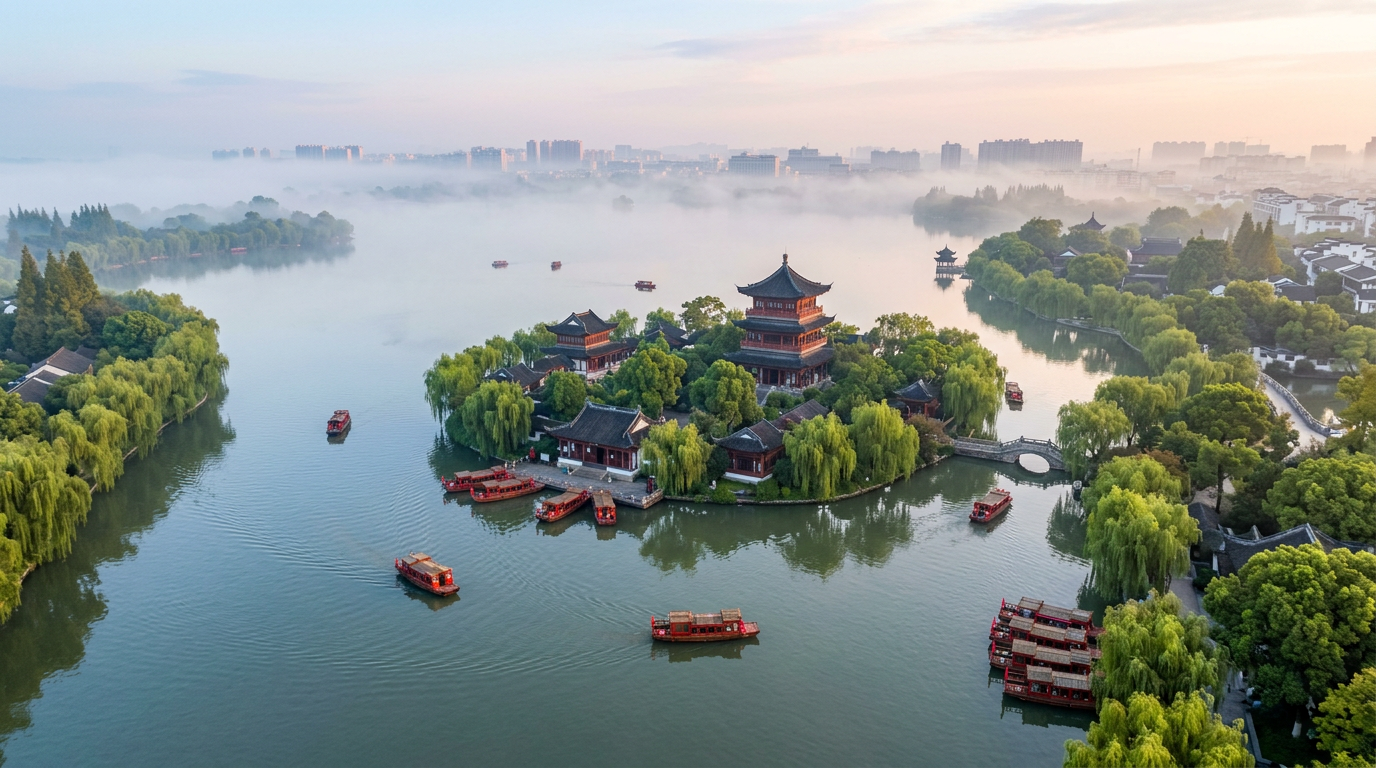
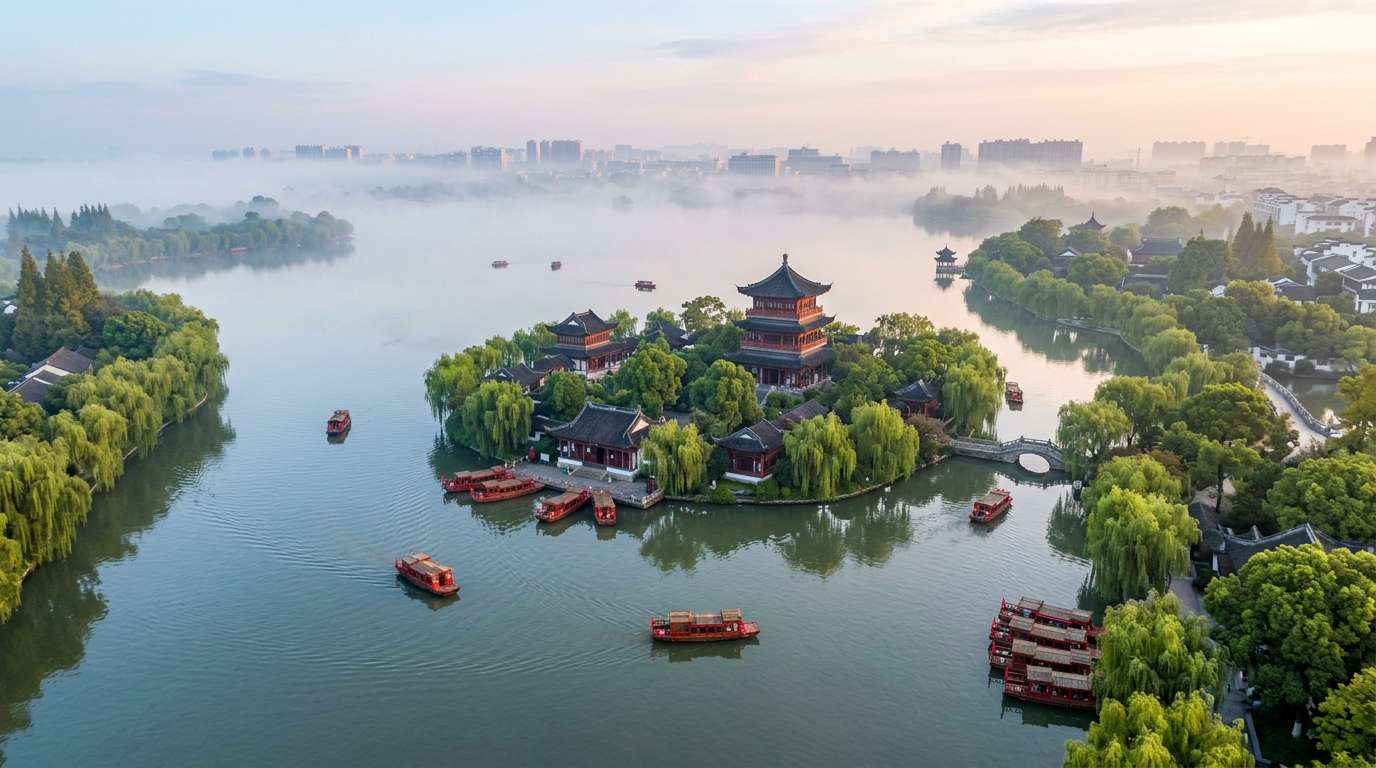
Compress figures

diff --git a/index.html b/index.html
@@ -102,7 +102,7 @@
             align-items: center;
             justify-content: center;
             text-align: center;
-            background: url('garden-wedding-cover.png') center center / cover no-repeat;
+            background: url('garden-wedding-cover.jpg') center center / cover no-repeat;
             overflow: hidden;
         }
 
